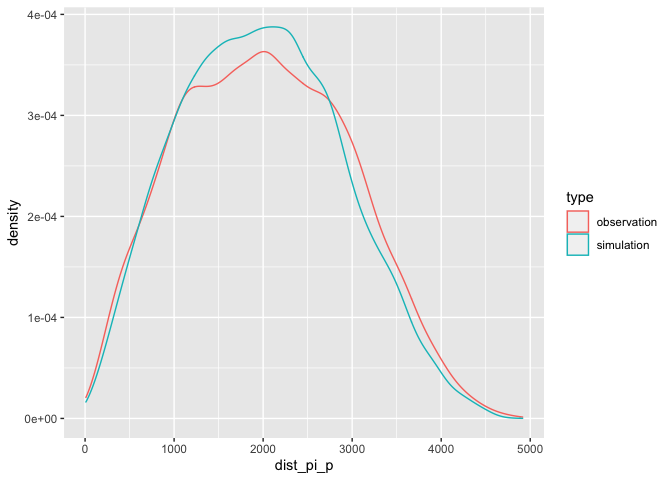
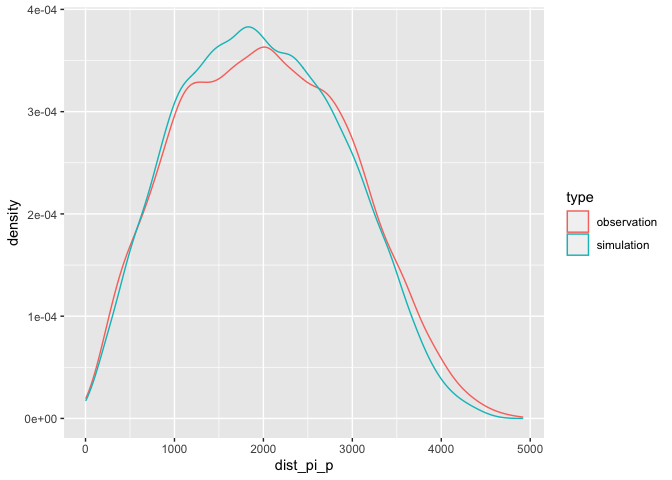
update

diff --git a/README.md b/README.md
@@ -25,11 +25,6 @@ A point pattern on planar network
 
 ``` r
 library(spacetimeLPP)
-```
-
-    ## Le chargement a nécessité le package : magrittr
-
-``` r
 library(ggplot2)
 
 ggplot() +
@@ -44,35 +39,22 @@ simulated point patterns
 
 ``` r
 distances <- dist_with_sims(pp = pharmacy, network = paris_network, nsim = 2)
-```
-
-    ## Warning: Duplicated segments were ignored
-
-    ## Warning: The `x` argument of `as_tibble.matrix()` must have unique column names if
-    ## `.name_repair` is omitted as of tibble 2.0.0.
-    ## ℹ Using compatibility `.name_repair`.
-    ## ℹ The deprecated feature was likely used in the spacetimeLPP package.
-    ##   Please report the issue to the authors.
-
-    ## Warning: Duplicated segments were ignored
-
-``` r
 distances
 ```
 
     ## # A tibble: 28,359 × 5
     ##       Pi P     dist_pi_p   sim type      
     ##    <int> <chr>     <dbl> <int> <chr>     
-    ##  1     2 1          448.     1 simulation
-    ##  2     3 1         2422.     1 simulation
-    ##  3     3 2         2401.     1 simulation
-    ##  4     4 1         1479.     1 simulation
-    ##  5     4 2         1679.     1 simulation
-    ##  6     4 3         1649.     1 simulation
-    ##  7     5 1          Inf      1 simulation
-    ##  8     5 2          Inf      1 simulation
-    ##  9     5 3          Inf      1 simulation
-    ## 10     5 4          Inf      1 simulation
+    ##  1     2 1         1517.     1 simulation
+    ##  2     3 1         2776.     1 simulation
+    ##  3     3 2         1321.     1 simulation
+    ##  4     4 1         3019.     1 simulation
+    ##  5     4 2         2477.     1 simulation
+    ##  6     4 3         2143.     1 simulation
+    ##  7     5 1         2697.     1 simulation
+    ##  8     5 2         2098.     1 simulation
+    ##  9     5 3         1765.     1 simulation
+    ## 10     5 4          389.     1 simulation
     ## # … with 28,349 more rows
 
 Visualisation of distances
@@ -81,7 +63,5 @@ Visualisation of distances
 ggplot(data = distances, mapping = aes(x = dist_pi_p, color = type)) +
   geom_density()
 ```
-
-    ## Warning: Removed 2004 rows containing non-finite values (stat_density).
 
 ![](README_files/figure-gfm/unnamed-chunk-4-1.png)<!-- -->
